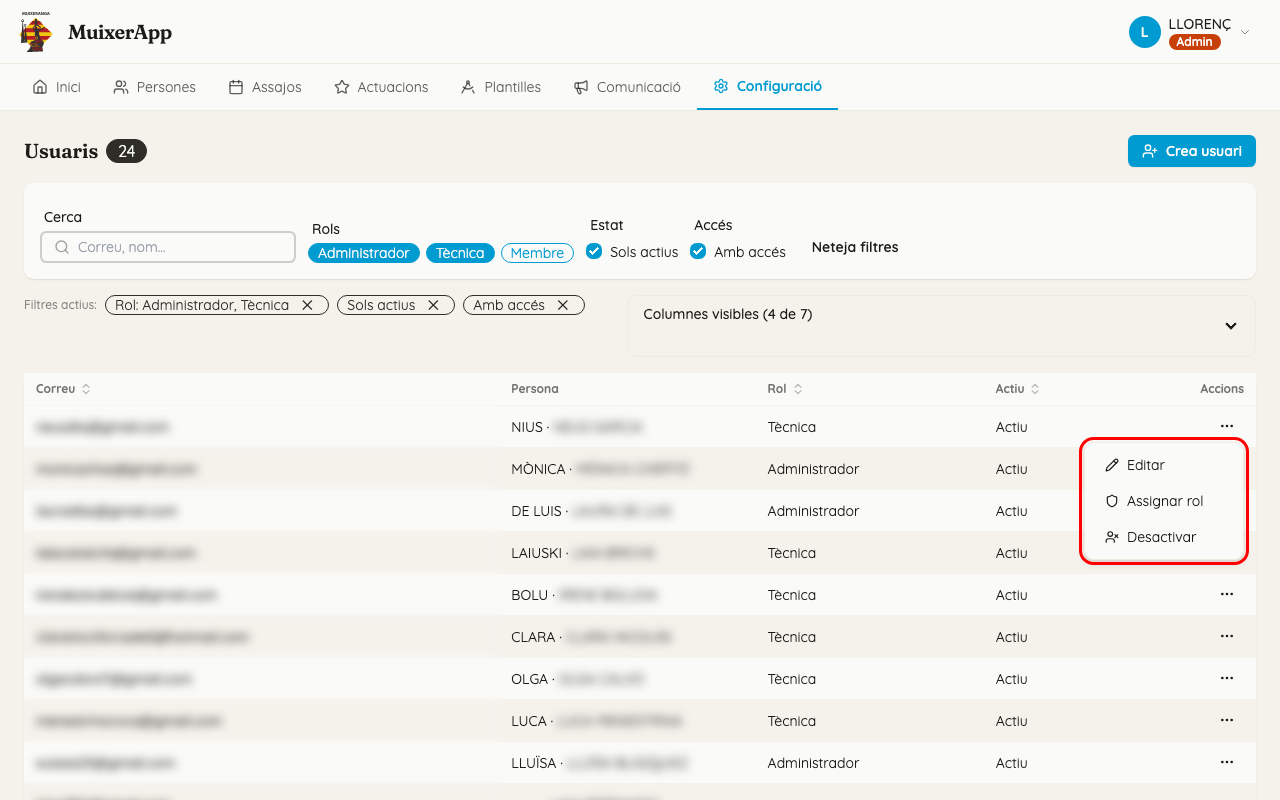
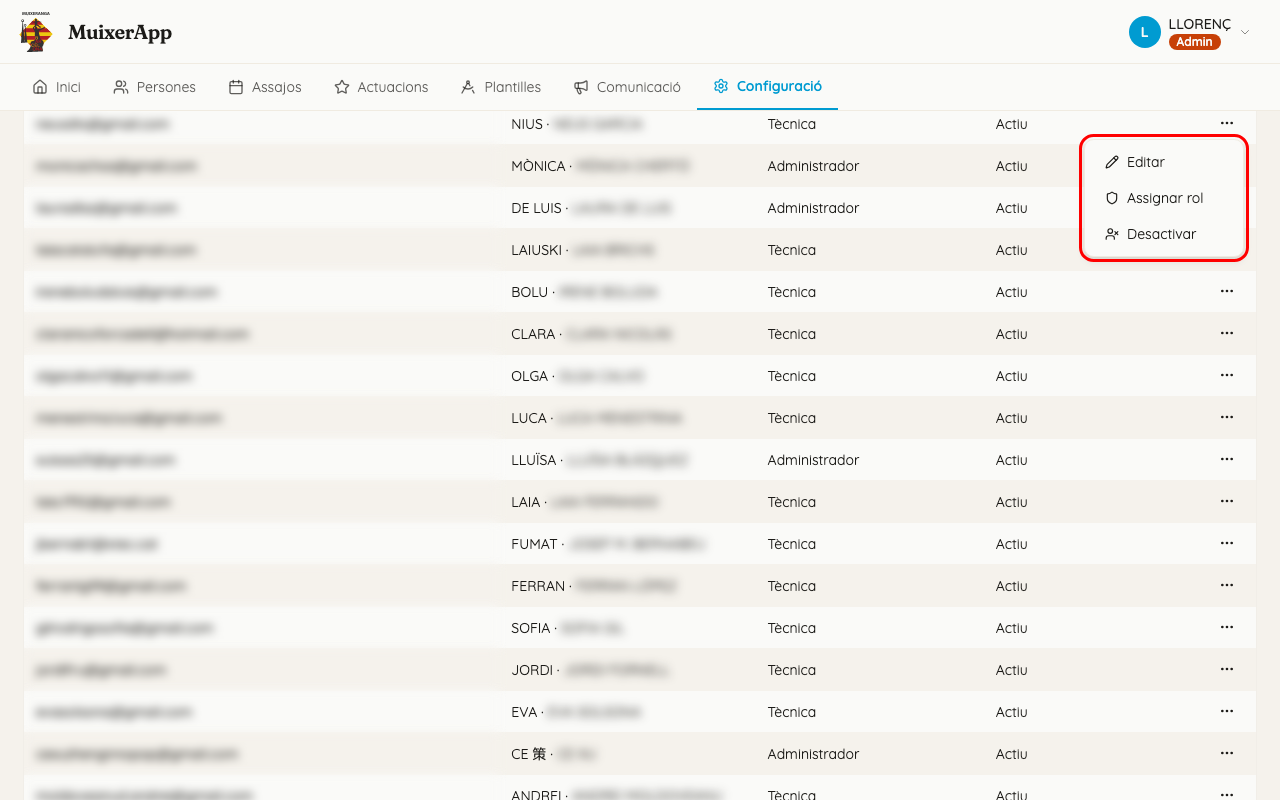
docs(manual): screenshots for «Dispositius i sessions» and the devices modal

diff --git a/apps/dashboard-e2e/src/manual/shots/s03.ts b/apps/dashboard-e2e/src/manual/shots/s03.ts
@@ -154,6 +154,24 @@ export const s03: ManualShot[] = [
     settle: 500,
   },
   {
+    // The modal of the first account with an open session, so «Sessions obertes» is not empty.
+    file: '06-usuari-dispositius-detall.png',
+    app: 'dashboard',
+    path: '/config/users/devices',
+    ready: 'table tbody td:first-child',
+    prepare: async (page) => {
+      await page
+        .locator('app-data-table tbody tr')
+        .filter({ has: page.locator('td[data-col="activeSessions"]', { hasNotText: /^\s*0\s*$/ }) })
+        .first()
+        .click();
+      await page.locator('dialog[open] [data-testid="session-row"]').first().waitFor();
+    },
+    blur: ['dialog[open] h2.text-lg'], // the title falls back to the email when the account has no person
+    clip: 'dialog[open] .modal-box',
+    settle: 500,
+  },
+  {
     file: '06-usuari-accions.png',
     app: 'dashboard',
     path: '/config/users',

diff --git a/docs/manual/06-usuaris-i-acces.md b/docs/manual/06-usuaris-i-acces.md
@@ -97,6 +97,8 @@ Feu clic en una fila per a obrir una finestra amb dos apartats:
 - **Sessions obertes.** Cada fila és un navegador o una app on el compte ha iniciat sessió: mostra si és «Dashboard» o «App», el navegador i el sistema, l'«Inici» i el «Darrer ús». «Fes expirar» tanca eixa sessió; «Fes expirar totes» les tanca totes. La persona haurà de tornar a entrar amb la contrasenya. La sessió es tanca del tot en un màxim de 15 minuts.
 - **Notificacions.** Cada fila és un dispositiu que rep notificacions. «Envia una prova» li envia una notificació de prova i «Elimina» el dona de baixa; el membre el pot tornar a activar des de la seua app.
 
+![Finestra de dispositius d'un compte amb les sessions obertes](img/06-usuari-dispositius-detall.png)
+
 Si no hi ha res, la finestra diu «Cap sessió oberta.» i «Cap dispositiu rep notificacions.».
 
 Si feu expirar les vostres pròpies sessions, el Dashboard continua funcionant uns minuts i després us porta a la pantalla d'inici de sessió.
